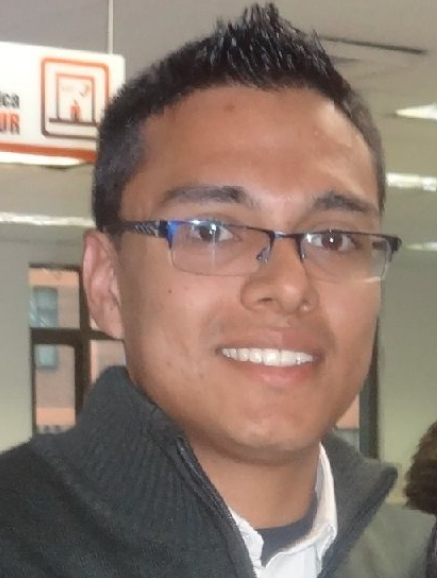
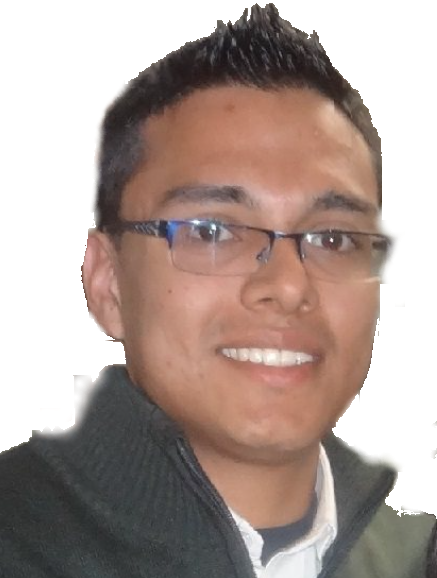
Agregado home y funcion de botones del home

diff --git a/index.html b/index.html
@@ -81,10 +81,43 @@
                         <a aria-hidden="true" rel="noopener" href="https://web.facebook.com/gatordz05" target="_blank" class="home_social-icon">
                             <i class="uil uil-facebook"></i>
                         </a>
-                        <a aria-hidden="true" rel="noopener" href="" target="_blank" class="home_social-icon">
+                        <a aria-hidden="true" rel="noopener" href="https://www.youtube.com/channel/UCCAS8G1qCjt5dSlSDCx-dtg" target="_blank" class="home_social-icon">
                             <i class="uil uil-youtube"></i>
                         </a>
                     </div>
+                    <div class="home_img">
+                        <svg class="home_blob" viewBox="0 0 200 187" xmlns="http://www.w3.org/2000/svg" xmlns:xlink="http://www.w3.org/1999/xlink">
+                            <mask id="mask0" mask-type="alpha">
+                                <path d="M190.312 36.4879C206.582 62.1187 201.309 102.826 182.328 134.186C163.346 165.547
+                                130.807 187.559 100.226 186.353C69.6454 185.297 41.0228 161.023 21.7403 129.362C2.45775
+                                97.8511 -7.48481 59.1033 6.67581 34.5279C20.9871 10.1032 59.7028 -0.149132 97.9666
+                                0.00163737C136.23 0.303176 174.193 10.857 190.312 36.4879Z"/>
+                            </mask>
+                            <g mask="url(#mask0)">
+                                <path d="M190.312 36.4879C206.582 62.1187 201.309 102.826 182.328 134.186C163.346
+                                165.547 130.807 187.559 100.226 186.353C69.6454 185.297 41.0228 161.023 21.7403
+                                129.362C2.45775 97.8511 -7.48481 59.1033 6.67581 34.5279C20.9871 10.1032 59.7028
+                                -0.149132 97.9666 0.00163737C136.23 0.303176 174.193 10.857 190.312 36.4879Z"/>
+                                <image class="home_blob-img" x="25" y="15" href="./images/foto.png"/>
+                            </g>
+                        </svg>
+                    </div>
+                    <div class="home_data">
+                        <h1 class="home_title">Hi, I'm German</h1>
+                        <h3 class="home_subtitle">Frontend developer</h3>
+                        <p class="home_description">Basic level experience in web design and development knowledge,
+                            producing quality work. In adition High level experience in network installation of small
+                            and big size.</p>
+                        <a aria-hidden="true" href="#contact" class="button button-flex">
+                            Contact me <i class="uil uil-message button_icon"></i></a>
+                    </div>
+                </div>
+                <div class="home_scroll">
+                    <a aria-hidden="true" href="#about" class="home_scroll-button button-flex">
+                        <i class="uil uil-mouse-alt home_scroll-mouse"></i>
+                        <span class="home_scroll-name">Scroll down</span>
+                        <i class="uil uil-arrow-down home_scroll-arrow"></i>
+                    </a>
                 </div>
             </div>
         </Section>

diff --git a/style.css b/style.css
@@ -209,3 +209,110 @@ img{
 .show-menu{
     bottom: 0;
 }
+
+/*===========Home===========*/
+.home_container{
+    gap: 1rem;
+}
+
+.home_content{
+    grid-template-columns: .5fr 3fr;
+    padding-top: 3.5rem;
+    align-items: center;
+}
+
+.home_social{
+    display: grid;
+    grid-template-columns: max-content;
+    row-gap: 1rem;
+}
+
+.home_social-icon{
+    font-size: 1.25rem;
+    color: var(--first-color);
+}
+
+.home_social-icon:hover{
+    color: var(--first-color-alt);
+}
+
+.home_blob{
+    width: 200px;
+    fill: var(--first-color);
+}
+
+.home_blob-img{
+    width: 140px;
+}
+
+.home_data{
+    grid-column: 1/3;
+}
+
+.home_title{
+    font-size: var(--big-font-size);
+}
+
+.home_subtitle{
+    font-size: var(--h3-font-size);
+    color: var(--text-color);
+    font-weight: var(--font-medium);
+    margin-bottom: var(--mb-0-75);
+}
+
+.home_description{
+    margin-bottom: var(--mb-2);
+}
+
+.home_scroll{
+    display: none;
+}
+
+.home_scroll-button{
+    color: var(--first-color);
+    transition: .3s;
+}
+
+.home_scroll-button{
+    transform: translateY(.25rem);
+}
+
+.home_scroll-mouse{
+    font-size: 2rem;
+}
+
+.home_scroll-name{
+    font-size: var(--small-font-size);
+    color: var(--title-color);
+    font-weight: var(--font-medium);
+    margin-right: var(--mb-0-25);
+}
+
+.home_scroll-arrow{
+    font-size: 1.25rem;
+}
+
+/*===========Botones===========*/
+.button{
+    display: inline-block;
+    background-color: var(--first-color);
+    color: #FFF;
+    padding: 1rem;
+    border-radius: 5rem;
+    font-weight: var(--font-medium);
+}
+
+.button:hover{
+    background-color: var(--first-color-alt);
+}
+
+.button_icon{
+    font-size: 1.25rem;
+    margin-left: var(--mb-0-5);
+    transition: .3s;
+}
+
+.button-flex{
+    display: inline-flex;
+    align-items: center;
+}
